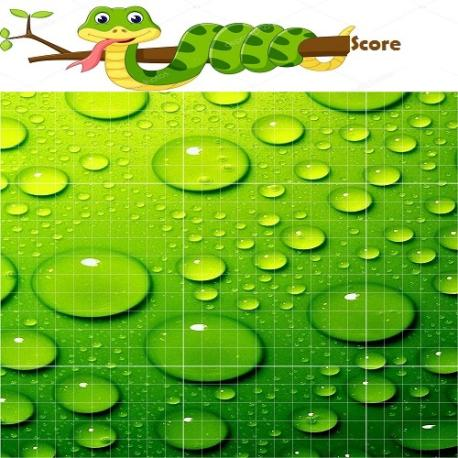
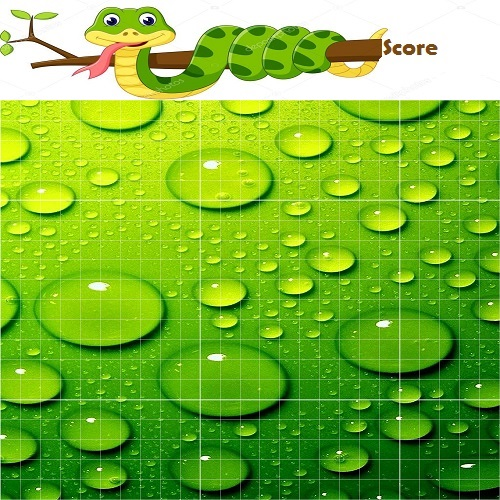
sound effect, a little bit responsive , bombe and star and gameover

diff --git a/snake.js b/snake.js
@@ -1,33 +1,28 @@
-/*add variables that i need*/
+
 //add the canvas
 var canvas = document.getElementById("snakeCanvas");
 var ctx = canvas.getContext("2d");
 
-// the unity of background
+// the unity of canvas
 const unity = 20;
-
-
 // create the snake
 
 let snake = [{
     x :  5*unity,
     y :  5*unity
 }];
-//generate the food
-
-console.log(star)
 
 // create the score var
-
 let score = 0;
 
-/*function that allows me to know the directio of the snake*/
+/*function that allows me to know the direction of the snake*/
 
 let direction;
 
 document.addEventListener("keydown",path);
 
 function path(event){
+    
     let key = event.which;
     if (key == 37||key== 81 && direction!= "RIGHT"){
         direction = "LEFT";
@@ -39,44 +34,67 @@ function path(event){
         direction= "DOWN";
     }
 }
-     /*create the game*/
-function draw(){
-    /*draw elements of the game*/
-    //add the background
 
-     const groundSnake = new Image();
-     groundSnake.src = "img/background.jpg";
-     ctx.drawImage(groundSnake,0,0);
-    
-     //add the food: the star image
-       const starImg = new Image();
-       starImg.src = "img/star.jpg";
-      ctx.drawImage(starImg, star.x, star.y)
-    
+//Generate the background
+const background = new Image();
+background.src = "img/background.jpg";
+
+//generate the star and the bombe
+    const starImage = new Image();
+    starImage.src = "img/star.jpg";
+    const bombeImage = new Image();
+    bombeImage.src = "img/bombe.jpg";
+
+    var star = {
+        x : Math.floor(Math.random()*25) *unity,
+        y : Math.floor(Math.random()*20+5) *unity
+    }
+    var bombe = {
+        x : Math.floor(Math.random()*25) *unity,
+        y : Math.floor(Math.random()*20+5) *unity
+    }
+
+
+     /*create the game*/
+
+
+function draw(){
+    //draw the background
+    ctx.drawImage(background,0,0);
 
     //draw the snake
     for (let i=0;i<snake.length;i++){
     ctx.fillStyle = "#FF0000"
     ctx.fillRect(snake[i].x, snake[i].y, unity, unity)}
+    // draw the star and bombe
+    ctx.drawImage(starImage, star.x, star.y);
+    ctx.drawImage(bombeImage, bombe.x, bombe.y);
+
    /*make your snake move*/
    //first create a new head depend on wich case is the direction
    let snakeNewheadX=snake[0].x
    let snakeNewheadY=snake[0].y
-   
+// generate move sound
+        let move = new Audio();
+        move.src = "audio/move.mp3";
    switch(direction) {
     case "LEFT":
         snakeNewheadX -= unity
+        move.play();
          break;
     case "RIGHT":
         snakeNewheadX += unity
+        move.play();
          break;
     case "UP":
         snakeNewheadY -= unity;
+        move.play();
+
          break;
     case "DOWN":
         snakeNewheadY += unity;
+        move.play();
          break;
-
    }
     
   //add the new head to the snake
@@ -84,8 +102,15 @@ function draw(){
   if(snakeNewheadX==star.x&&snakeNewheadY==star.y){
       //addscore
       score++
-      //addsound
-      //generete new food = 
+      //addsound when the snake eat food
+      let eat = new Audio();
+          eat.src = "audio/eat.wav";
+          eat.play();
+      //generete new star
+      star = {
+        x : Math.floor(Math.random()*25) * unity,
+        y : Math.floor(Math.random()*20+5) * unity
+    }
     }
   
   else{
@@ -95,16 +120,20 @@ let newHead = {
         x : snakeNewheadX,
         y : snakeNewheadY
     }
-snake.unshift(newHead)
-   /*when the game over*/
-   
 
+   /*when the game over*/
+   if(snakeNewheadX < 0 || snakeNewheadX ==25 * unity || snakeNewheadY < 5*unity || 
+    snakeNewheadY == 25*unity ||  (snakeNewheadX == bombe.x && snakeNewheadY == bombe.y)){
+    clearInterval(justPlay);
+    // add sound of dead
+    let dead = new Audio();
+        dead.src = "audio/dead.mp3";
+        dead.play();
+}
+snake.unshift(newHead)
   //add the text score
   ctx.fillStyle = "black";
-  
-  ctx.fillText(score,unity,unity)
-
-
+  ctx.fillText(score,24*unity,3*unity)
 }
 
-let justPlay = setInterval(draw,100);
+var justPlay = setInterval(draw,100);

diff --git a/snake.html b/snake.html
@@ -4,6 +4,14 @@
     <meta charset="UTF-8">
     <meta name="viewport" content="width=device-width, initial-scale=1.0">
     <title>Document</title>
+    <style>
+        canvas {
+            width: 100%;
+            height: 100%;
+            max-width: 500px;
+            max-height: 500px;
+        }
+    </style>
 </head>
 <body>
     <canvas id="snakeCanvas" width="500" height="500"></canvas>
